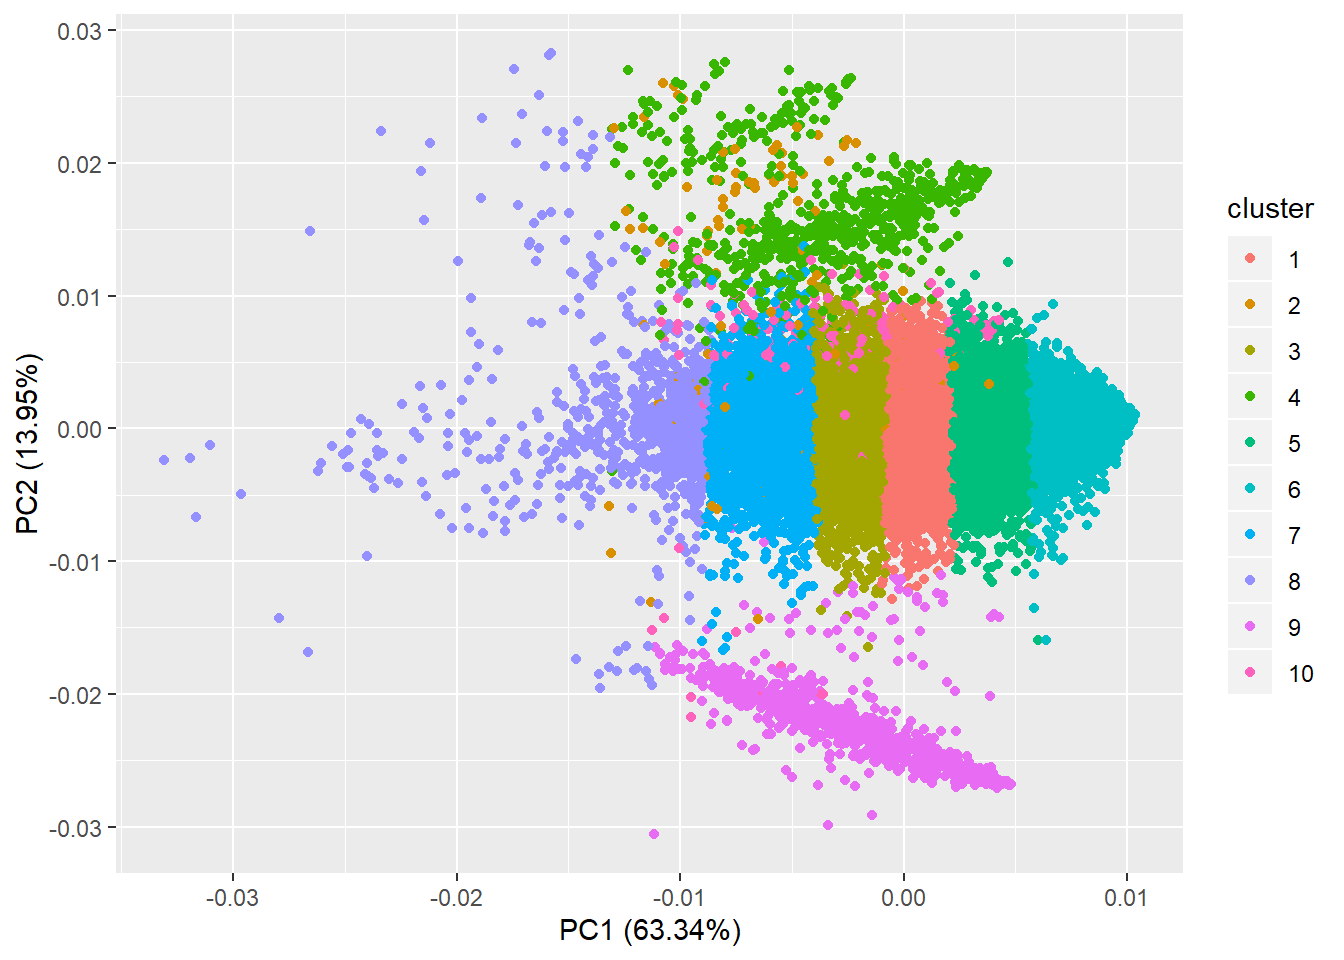
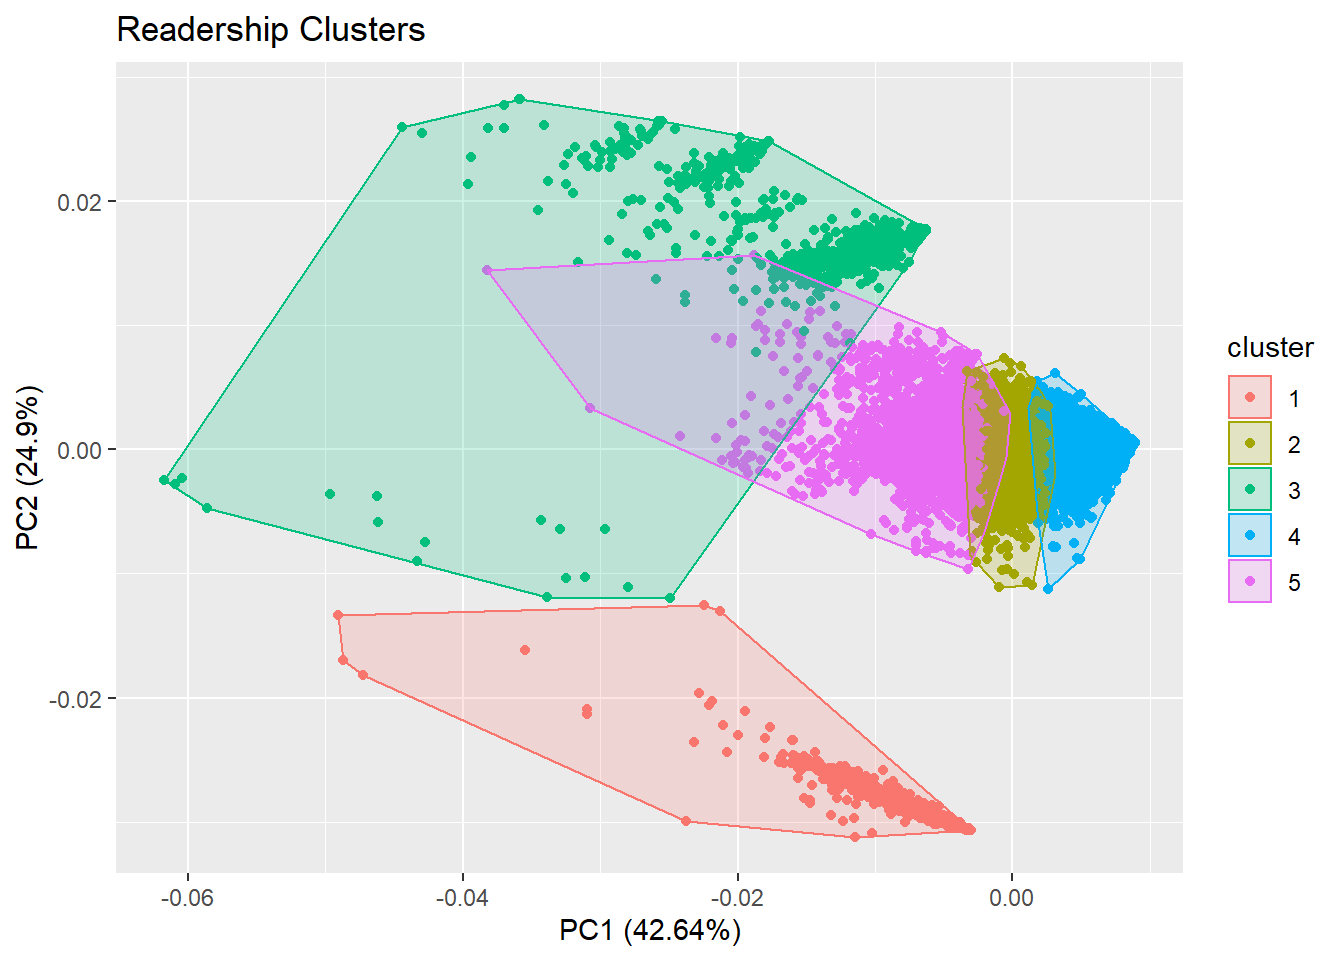
Add kmeans

diff --git a/docs/index.html b/docs/index.html
@@ -431,31 +431,32 @@ user_features_raw_df &lt;- ratings_df %&gt;%
 user_features_df &lt;- user_features_raw_df %&gt;%
   group_by(user_id) %&gt;%
   summarize_all(mean, na.rm=TRUE) %&gt;%
-  mutate_if(~ any(is.na(.x)),~ if_else(is.na(.x),0,.x)) # Replace na with 0 for now...
+  select(-user_id,) %&gt;%
+  mutate_if(~ any(is.na(.x)),~ if_else(is.na(.x),-5,.x)) # Replace na with -5
 
 # Convert to snake case
 colnames(user_features_df) = to_snake_case(colnames(user_features_df))
 
 head(user_features_df, 15)</code></pre>
-<pre><code>## # A tibble: 15 x 9
-##    user_id fantasy horror mystery realistic_ficti~ romance science_fiction
-##      &lt;int&gt;   &lt;dbl&gt;  &lt;dbl&gt;   &lt;dbl&gt;            &lt;dbl&gt;   &lt;dbl&gt;           &lt;dbl&gt;
-##  1       1    3.55   3.29    3.4              3.51    3.45            3.14
-##  2       2    4.85   5       4.9              4.38    4.12            4.75
-##  3       3    1.45   1.5     1.24             2       1.76            1.17
-##  4       4    3.90   3.59    3.55             3.65    3.44            3.54
-##  5       5    4.11   4.03    4.03             3.95    3.93            4.11
-##  6       6    4.2    4.25    4.14             4.29    4.43            4.17
-##  7       7    3.79   3.78    3.76             4       3.51            3.76
-##  8       8    4.09   3.95    3.81             3.25    3.17            4.42
-##  9       9    3.66   3.67    3.25             3.37    3.52            3.58
-## 10      10    4.02   3.88    3.92             3.86    3.76            3.89
-## 11      11    3.63   3.69    3.42             3.59    3.44            3.4 
-## 12      12    3.54   3.38    3.85             3.86    3.56            3.81
-## 13      13    3.64   4       4.33             4.29    4.11            4   
-## 14      14    3.61   3.6     3.6              3.08    3.32            3.66
-## 15      15    4.26   4.45    4                4.35    4.31            4.33
-## # ... with 2 more variables: thriller &lt;dbl&gt;, young_adult &lt;dbl&gt;</code></pre>
+<pre><code>## # A tibble: 15 x 8
+##    fantasy horror mystery realistic_ficti~ romance science_fiction thriller
+##      &lt;dbl&gt;  &lt;dbl&gt;   &lt;dbl&gt;            &lt;dbl&gt;   &lt;dbl&gt;           &lt;dbl&gt;    &lt;dbl&gt;
+##  1    3.55   3.29    3.4              3.51    3.45            3.14     3.4 
+##  2    4.85   5       4.9              4.38    4.12            4.75     4.67
+##  3    1.45   1.5     1.24             2       1.76            1.17     1.13
+##  4    3.90   3.59    3.55             3.65    3.44            3.54     3.18
+##  5    4.11   4.03    4.03             3.95    3.93            4.11     4   
+##  6    4.2    4.25    4.14             4.29    4.43            4.17     4.25
+##  7    3.79   3.78    3.76             4       3.51            3.76     3.6 
+##  8    4.09   3.95    3.81             3.25    3.17            4.42     3.4 
+##  9    3.66   3.67    3.25             3.37    3.52            3.58     3.03
+## 10    4.02   3.88    3.92             3.86    3.76            3.89     3.96
+## 11    3.63   3.69    3.42             3.59    3.44            3.4      3.69
+## 12    3.54   3.38    3.85             3.86    3.56            3.81     3.93
+## 13    3.64   4       4.33             4.29    4.11            4        4.4 
+## 14    3.61   3.6     3.6              3.08    3.32            3.66     3.31
+## 15    4.26   4.45    4                4.35    4.31            4.33     4.08
+## # ... with 1 more variable: young_adult &lt;dbl&gt;</code></pre>
 </div>
 <div id="data-analysis-and-visualization" class="section level1">
 <h1>Data Analysis and Visualization</h1>
@@ -468,42 +469,65 @@ head(user_features_df, 15)</code></pre>
     y=&quot;Young Adult Ratings&quot;
   )</code></pre>
 <p><img src="index_files/figure-html/unnamed-chunk-6-1.png" width="672" /></p>
-<pre class="r"><code># K-Menas
+<pre class="r"><code># K-means
 # TODO: look at variance
 
-data &lt;- user_features_df %&gt;%
-  select(-user_id,)
+set.seed(320)
 
-kmeans_res &lt;- kmeans(data, 10)</code></pre>
-<pre><code>## Warning: Quick-TRANSfer stage steps exceeded maximum (= 2671050)</code></pre>
-<pre class="r"><code>kmeans_res$centers</code></pre>
-<pre><code>##     fantasy    horror  mystery realistic_fiction  romance science_fiction
-## 1  3.992108 3.8726226 3.952639        3.88462003 3.901160       3.9586879
-## 2  4.290847 3.0172306 4.156307        4.09673801 4.087266       4.1488551
-## 3  3.672635 3.5193968 3.636824        3.60396455 3.595787       3.6221625
-## 4  4.001380 0.1175622 4.176644        4.11111850 4.142363       3.3191235
-## 5  4.317416 4.2267007 4.291889        4.20890536 4.243940       4.2968034
-## 6  4.722269 4.7008788 4.716875        4.64035308 4.677468       4.7147891
-## 7  3.305338 3.1248100 3.276012        3.25531966 3.238547       3.2343613
-## 8  2.610764 2.2920146 2.656816        2.62709014 2.673249       2.4115432
-## 9  4.121587 4.0848265 4.118731        0.08755274 4.078533       4.1470257
-## 10 3.963528 4.1440410 4.098890        3.95871322 4.096489       0.1796111
-##     thriller young_adult
-## 1  3.9082000    3.989037
-## 2  0.1243132    4.223674
-## 3  3.5845156    3.688346
-## 4  4.1577156    4.179436
-## 5  4.2647588    4.305581
-## 6  4.7151870    4.702929
-## 7  3.2101820    3.332261
-## 8  2.4561217    2.751980
-## 9  4.0818888    4.081864
-## 10 3.9385903    4.041933</code></pre>
-<pre class="r"><code>autoplot(kmeans_res, data=data)</code></pre>
+kmeans_res &lt;- kmeans(user_features_df, 5)
+kmeans_res$centers</code></pre>
+<pre><code>##    fantasy    horror  mystery realistic_fiction  romance science_fiction
+## 1 4.050004  4.053874 4.073852         -5.000000 4.017203        3.960832
+## 2 3.904492  3.769418 3.866276          3.803514 3.817771        3.867783
+## 3 3.535047 -5.000000 3.991061          3.883914 3.959537        1.899152
+## 4 4.475997  4.413759 4.457708          4.375622 4.412821        4.461388
+## 5 3.356341  3.185821 3.332332          3.320997 3.300912        3.137580
+##   thriller young_adult
+## 1 3.963249    3.997335
+## 2 3.821197    3.906007
+## 3 3.133296    4.092793
+## 4 4.440714    4.461953
+## 5 3.151612    3.378253</code></pre>
+<pre class="r"><code>autoplot(kmeans_res, data=user_features_df, frame=TRUE) +
+  labs(title=&quot;Readership Clusters&quot;)</code></pre>
 <p><img src="index_files/figure-html/unnamed-chunk-7-1.png" width="672" /></p>
+<pre class="r"><code># Manually without autoplot
+#pca_res &lt;- prcomp(data, center=TRUE, scale.=TRUE)
+
+#plot_data &lt;- pca_res$x[,1:2] %&gt;%
+#  as_tibble() %&gt;%
+#  mutate(cluster=factor(kmeans_res$cluster))
+
+#ggplot(plot_data, aes(PC1, PC2, color=cluster)) +
+#  geom_point()</code></pre>
 </div>
 <div id="predictions" class="section level1">
 <h1>Predictions</h1>
+<pre class="r"><code># TODO: cluster prediction
+
+training_data &lt;- user_features_df %&gt;%
+  mutate(cluster=kmeans_res$cluster)
+
+head(training_data, 15)</code></pre>
+<pre><code>## # A tibble: 15 x 9
+##    fantasy horror mystery realistic_ficti~ romance science_fiction thriller
+##      &lt;dbl&gt;  &lt;dbl&gt;   &lt;dbl&gt;            &lt;dbl&gt;   &lt;dbl&gt;           &lt;dbl&gt;    &lt;dbl&gt;
+##  1    3.55   3.29    3.4              3.51    3.45            3.14     3.4 
+##  2    4.85   5       4.9              4.38    4.12            4.75     4.67
+##  3    1.45   1.5     1.24             2       1.76            1.17     1.13
+##  4    3.90   3.59    3.55             3.65    3.44            3.54     3.18
+##  5    4.11   4.03    4.03             3.95    3.93            4.11     4   
+##  6    4.2    4.25    4.14             4.29    4.43            4.17     4.25
+##  7    3.79   3.78    3.76             4       3.51            3.76     3.6 
+##  8    4.09   3.95    3.81             3.25    3.17            4.42     3.4 
+##  9    3.66   3.67    3.25             3.37    3.52            3.58     3.03
+## 10    4.02   3.88    3.92             3.86    3.76            3.89     3.96
+## 11    3.63   3.69    3.42             3.59    3.44            3.4      3.69
+## 12    3.54   3.38    3.85             3.86    3.56            3.81     3.93
+## 13    3.64   4       4.33             4.29    4.11            4        4.4 
+## 14    3.61   3.6     3.6              3.08    3.32            3.66     3.31
+## 15    4.26   4.45    4                4.35    4.31            4.33     4.08
+## # ... with 2 more variables: young_adult &lt;dbl&gt;, cluster &lt;int&gt;</code></pre>
 </div>
 <div id="conclusion" class="section level1">
 <h1>Conclusion</h1>
